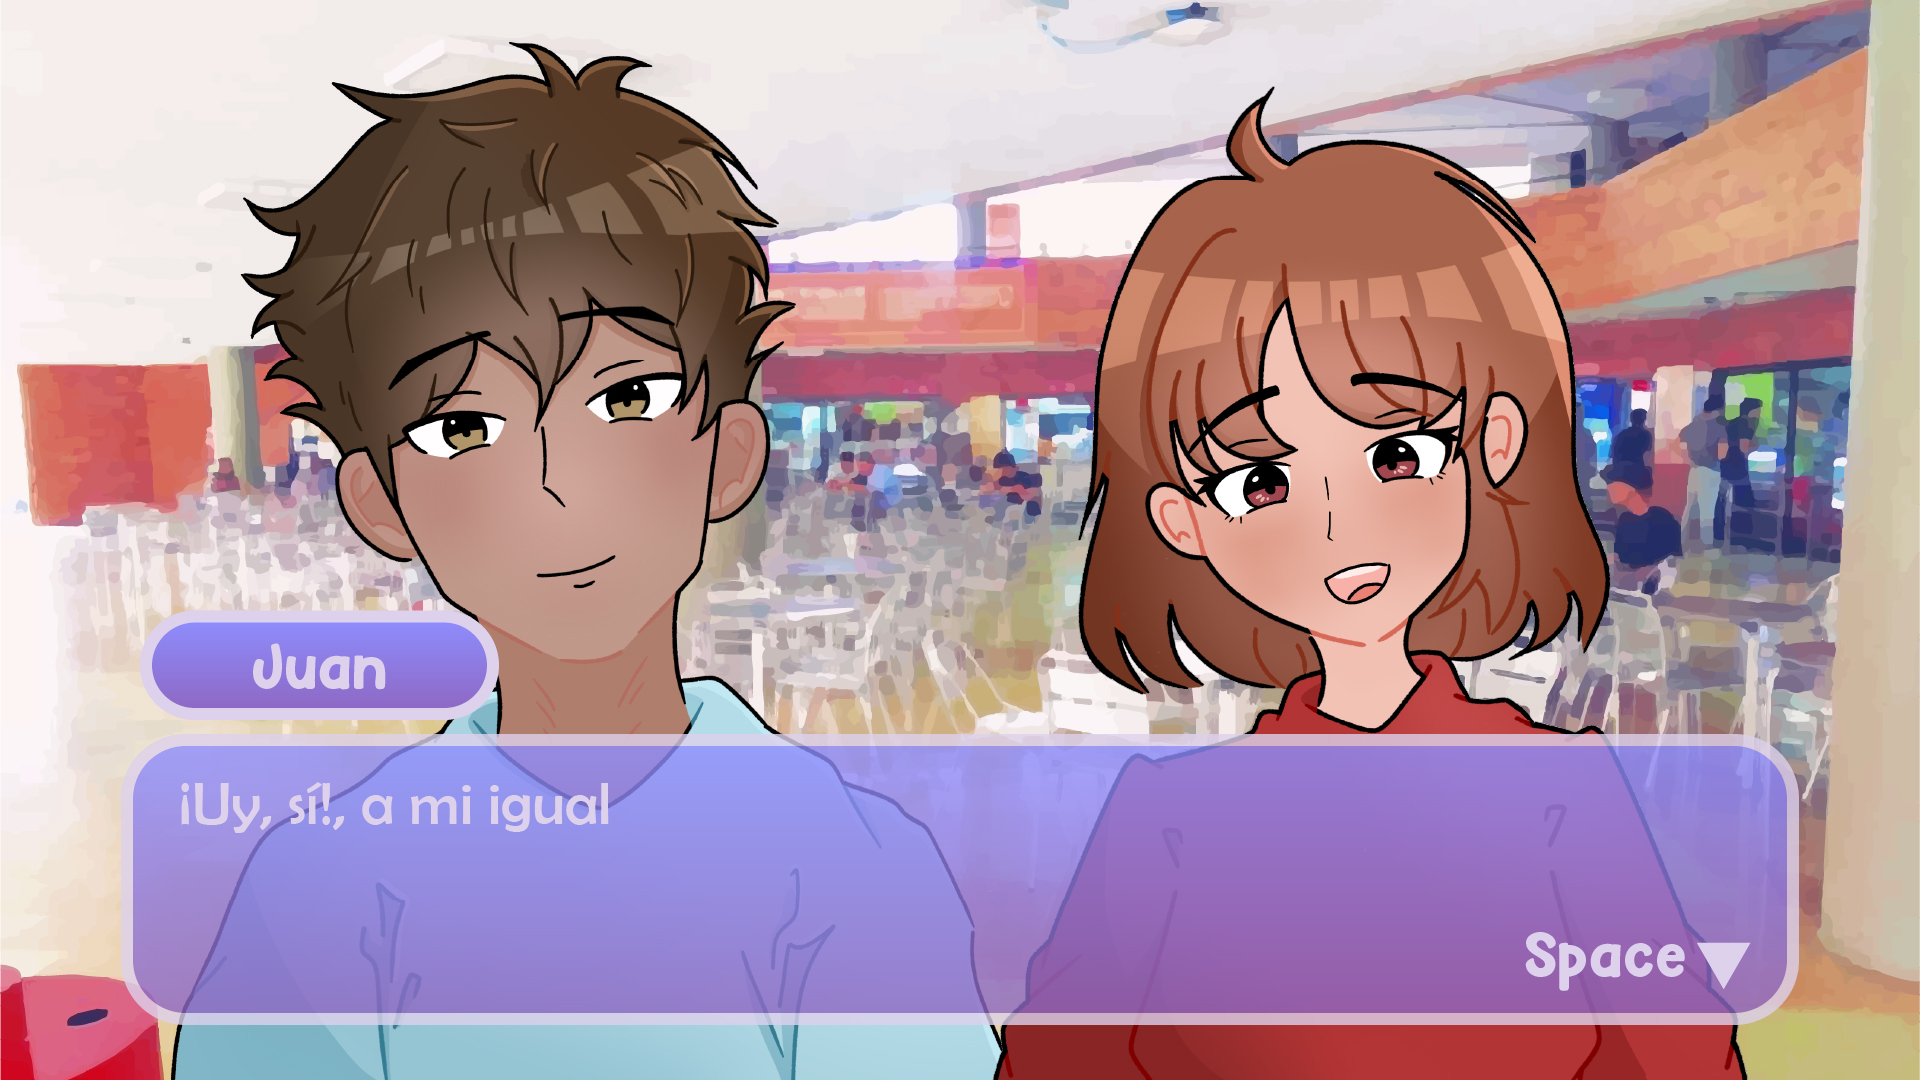
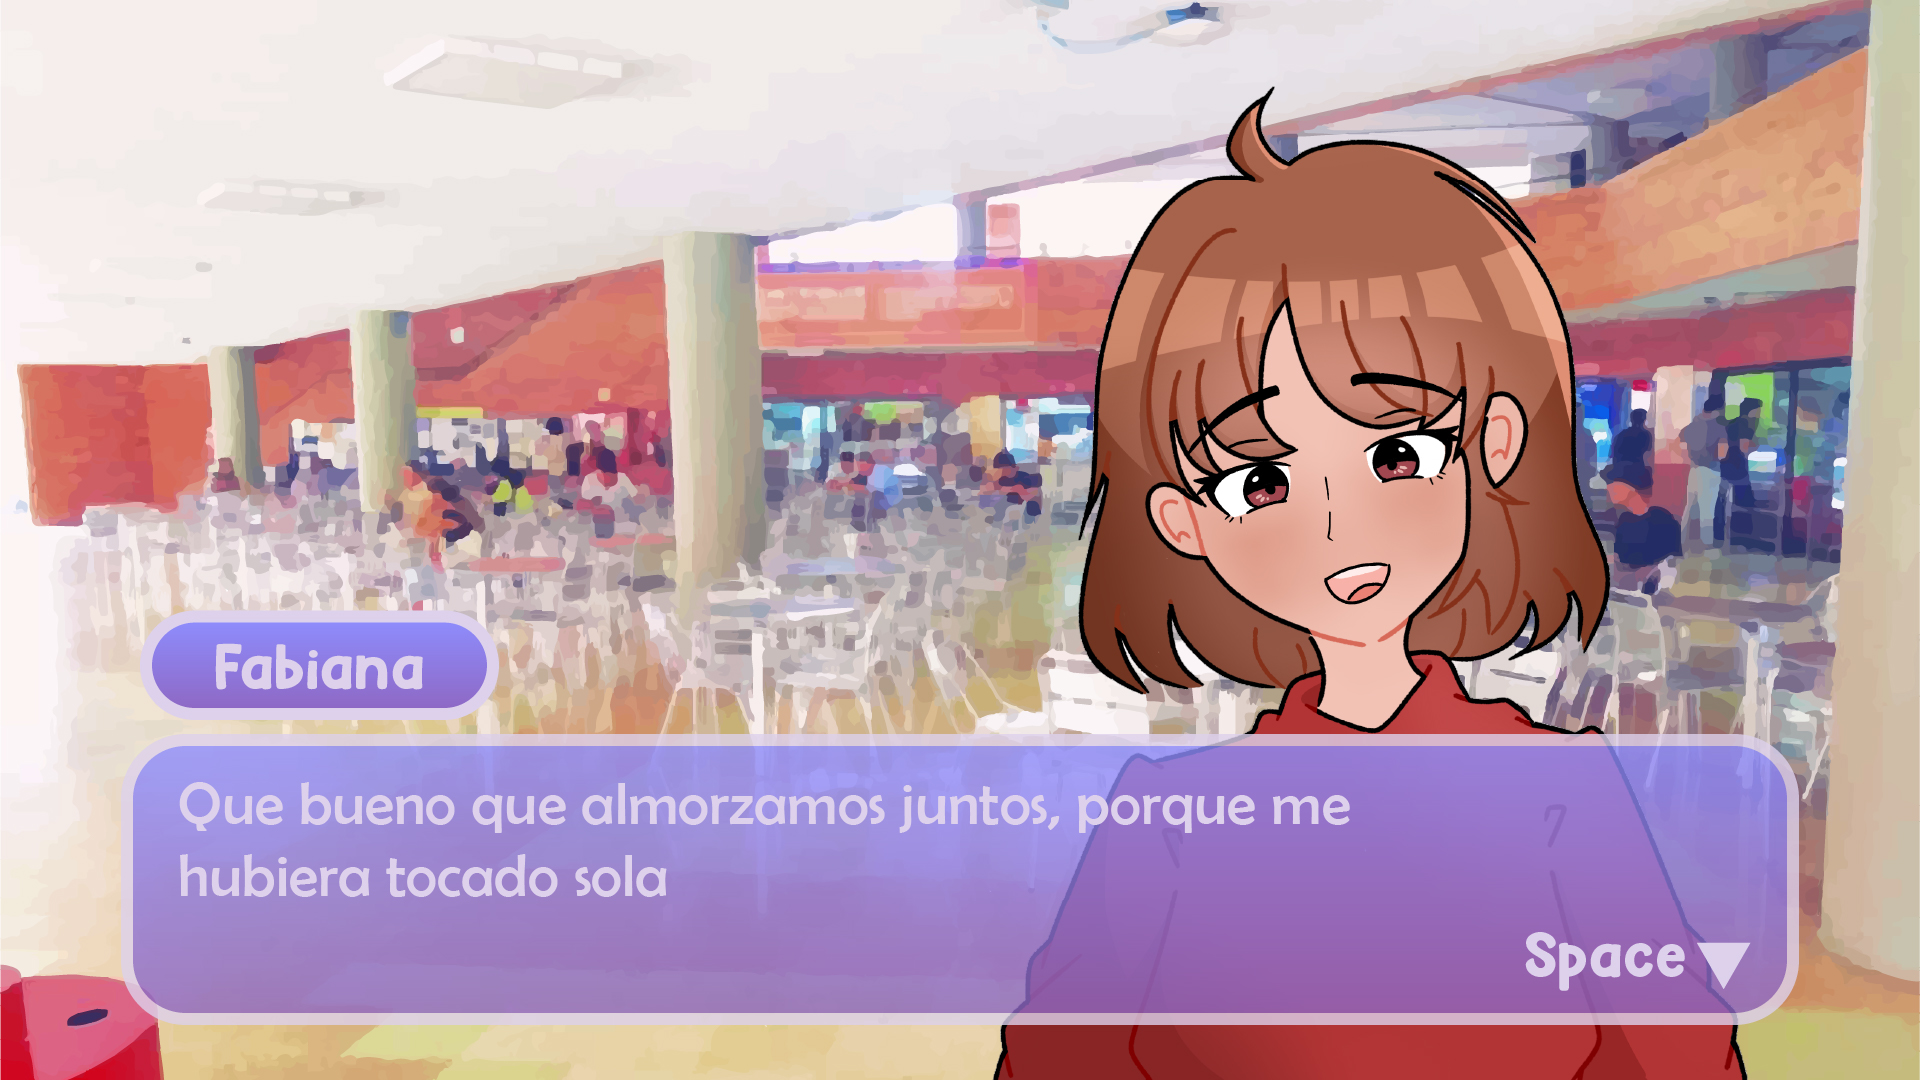
Versión preliminar de ruta 1, 2 y 3 funcionando correctamente.

Changed region(s): [[0.0625, 0.0306, 0.7188, 1.0], [0.0938, 0.5806, 0.2188, 0.6417], [0.0938, 0.8861, 0.125, 0.9167]]

diff --git a/js/main.js b/js/main.js
@@ -7,6 +7,7 @@ const btnNext = document.getElementById("btnNext");
 const btnA = document.getElementById("botonA");
 const btnB = document.getElementById("botonB");
 
+let reset = true;
 let rutaActual = "introduccion";
 let idEscenaActual = controlEscenas.introduccion[0].id;
 let idEscenaSiguiente = controlEscenas.introduccion[0].idSiguiente[0];
@@ -17,7 +18,9 @@ const cambiarEscena = () => {
 	// Si el usuario se encuentra en la escena de desición, no retornará nada al entrar a este método y saldrá inmediatamente
 	if (!esDesicion === false) return;
 
-	console.log(` INICIO ---- idEscenaActual: ${idEscenaActual}, idSiguiente: ${idEscenaSiguiente},`);
+	console.log(
+		` RUTA ${rutaActual} INICIO ---- idEscenaActual: ${idEscenaActual}, idSiguiente: ${idEscenaSiguiente},`
+	);
 
 	const rutaEscena = controlEscenas[rutaActual][idEscenaActual].src;
 	console.log(rutaEscena);
@@ -34,14 +37,17 @@ const opcionBoton = (botonEscogido) => {
 	if (botonEscogido === "A") {
 		// * Opciones botón A
 		if (rutaActual === "introduccion" && idEscenaActual === 10) rutaActual = "ruta1";
-
+		if (rutaActual === "ruta1" && idEscenaActual === 7) reset = false;
+		if (rutaActual === "ruta1" && idEscenaActual === 12) reset = false;
 		ocultarBotones();
 
 		return;
 	}
 
 	// * Opciones botón B
-	if (rutaActual === "introduccion" && idEscenaActual === 10) rutaActual = "ruta2";
+	if (rutaActual === "introduccion" && idEscenaActual === 10) rutaActual = "ruta1";
+	if (rutaActual === "ruta1" && idEscenaActual === 7) rutaActual = "ruta3";
+	if (rutaActual === "ruta1" && idEscenaActual === 12) rutaActual = "ruta2";
 	ocultarBotones();
 };
 
@@ -54,11 +60,20 @@ const ocultarBotones = () => {
 	btnA.style.display = "none";
 	btnB.style.display = "none";
 
-	canvas.setAttribute("src", controlEscenas[rutaActual][0].src);
+	if (reset) {
+		canvas.setAttribute("src", controlEscenas[rutaActual][0].src);
+		idEscenaActual = controlEscenas[rutaActual][0].id;
+		idEscenaSiguiente = controlEscenas[rutaActual][0].idSiguiente[0];
+	} else {
+		// cambiarEscena();
+		canvas.setAttribute("src", controlEscenas[rutaActual][idEscenaActual].src);
+		// Guardamos el id de la escena siguiente
+		idEscenaSiguiente = controlEscenas[rutaActual][idEscenaActual].idSiguiente[0];
+		// Actualizamos la id de la escena actual con el valor de la escena siguiente GUARDADA anteriormente.r
+		idEscenaActual = controlEscenas[rutaActual][idEscenaActual].id;
+	}
 
-	idEscenaActual = controlEscenas[rutaActual][0].id;
-	idEscenaSiguiente = controlEscenas[rutaActual][0].idSiguiente[0];
-
+	reset = true;
 	console.log(
 		`CAMBIO DE RUTA ${rutaActual} ---- idEscenaActual: ${idEscenaActual}, idSiguiente: ${idEscenaSiguiente},`
 	);

diff --git a/index.html b/index.html
@@ -44,7 +44,8 @@
 		<div class="container">
 			<p>
 				Espere a que la imagen cambie para realizar una nueva interacción. Se recomienda una conexión a internet
-				estable para una experiencia más cómoda.
+				estable para una experiencia más cómoda. Recarga la página una vez que termines tu aventura o si deseas
+				reintentar tu progreso.
 			</p>
 		</div>
 		<div class="contenedorCanvas">
@@ -52,8 +53,8 @@
 				<img id="canvas" src="src/scenes/introduction/1-1.jpg" alt="" />
 			</div>
 			<div class="contenedorBotones">
-				<button id="botonA" class="botonOpcion botonA" onclick="">Opción A</button>
-				<button id="botonB" class="botonOpcion botonB" onclick="">Opción B</button>
+				<button id="botonA" class="botonOpcion botonA">Opción A</button>
+				<button id="botonB" class="botonOpcion botonB">Opción B</button>
 			</div>
 		</div>
 		<div class="container">

diff --git a/js/controller.js b/js/controller.js
@@ -1,9 +1,11 @@
 const controlDesiciones = (rutaActual, idEscenaActual, mostrarBotones) => {
 	if (rutaActual === "introduccion" && idEscenaActual === 10) {
 		mostrarBotones();
-		console.log("El botón o la tecla espacio no deberían arrojar ningún error.");
 		return true;
-	} else if (rutaActual === "ruta1" && idEscenaActual === 10) {
+	} else if (rutaActual === "ruta1" && idEscenaActual === 7) {
+		mostrarBotones();
+		return true;
+	} else if (rutaActual === "ruta1" && idEscenaActual === 12) {
 		mostrarBotones();
 		return true;
 	}

diff --git a/css/styles.css b/css/styles.css
@@ -59,25 +59,22 @@
 
 .botonOpcion {
 	position: absolute;
-	width: 14%;
-	height: 7%;
+	width: 24%;
+	height: 14%;
 	display: none;
-	/* width: 23.2%;
-	height: 100%; */
-	/* background-color: transparent; */
+	background-color: transparent;
 	box-shadow: none;
-	/* opacity: 0; */
-	/* border-radius: 35%; */
+	opacity: 0;
 }
 
 .botonA {
-	top: 80%;
-	left: 35%;
+	top: 36%;
+	left: 38%;
 }
 
 .botonB {
-	top: 80%;
-	left: 55%;
+	top: 55%;
+	left: 38%;
 }
 
 .titulo {
